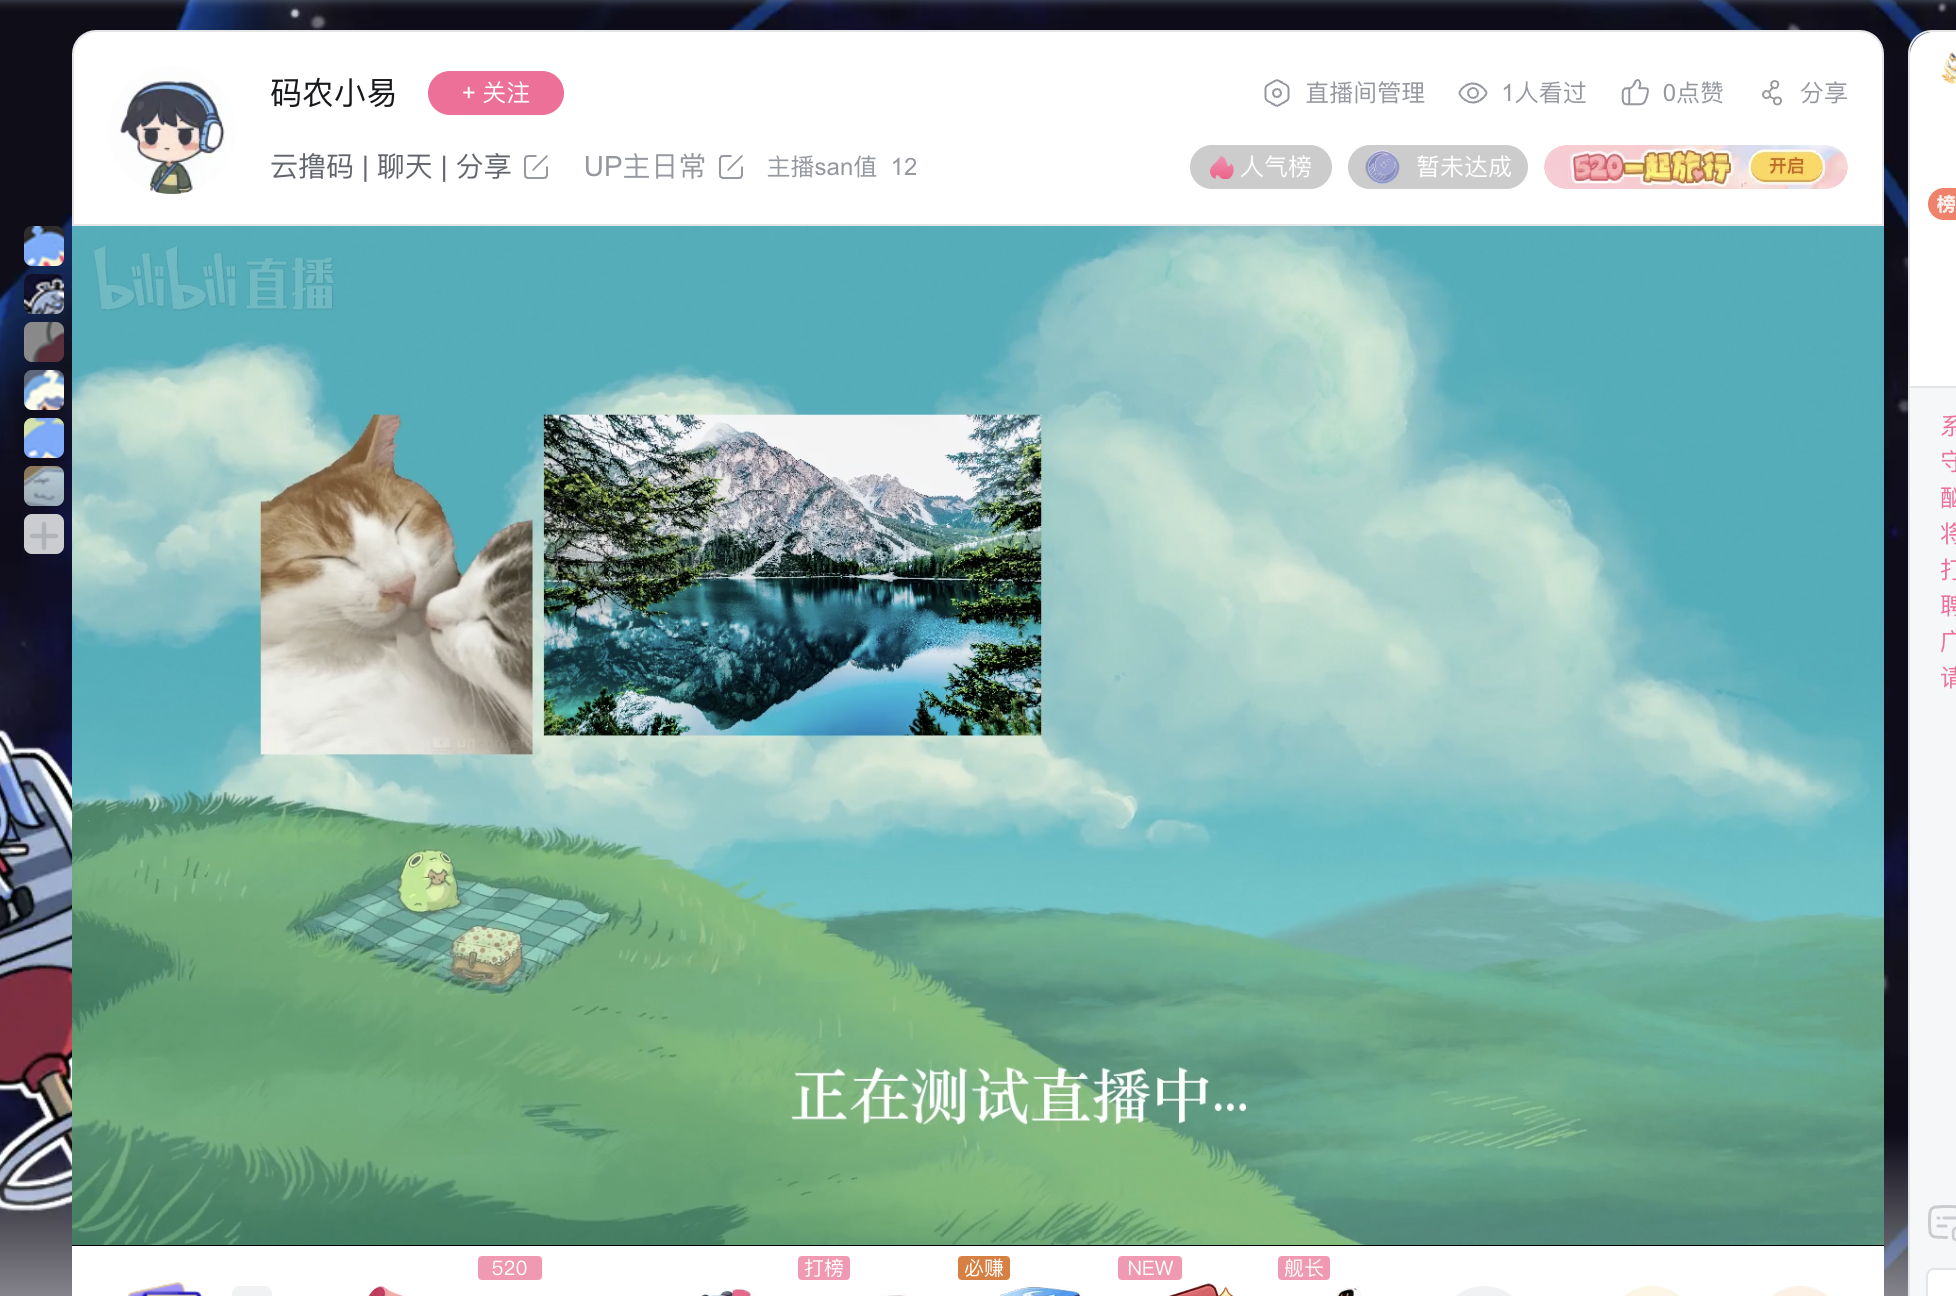
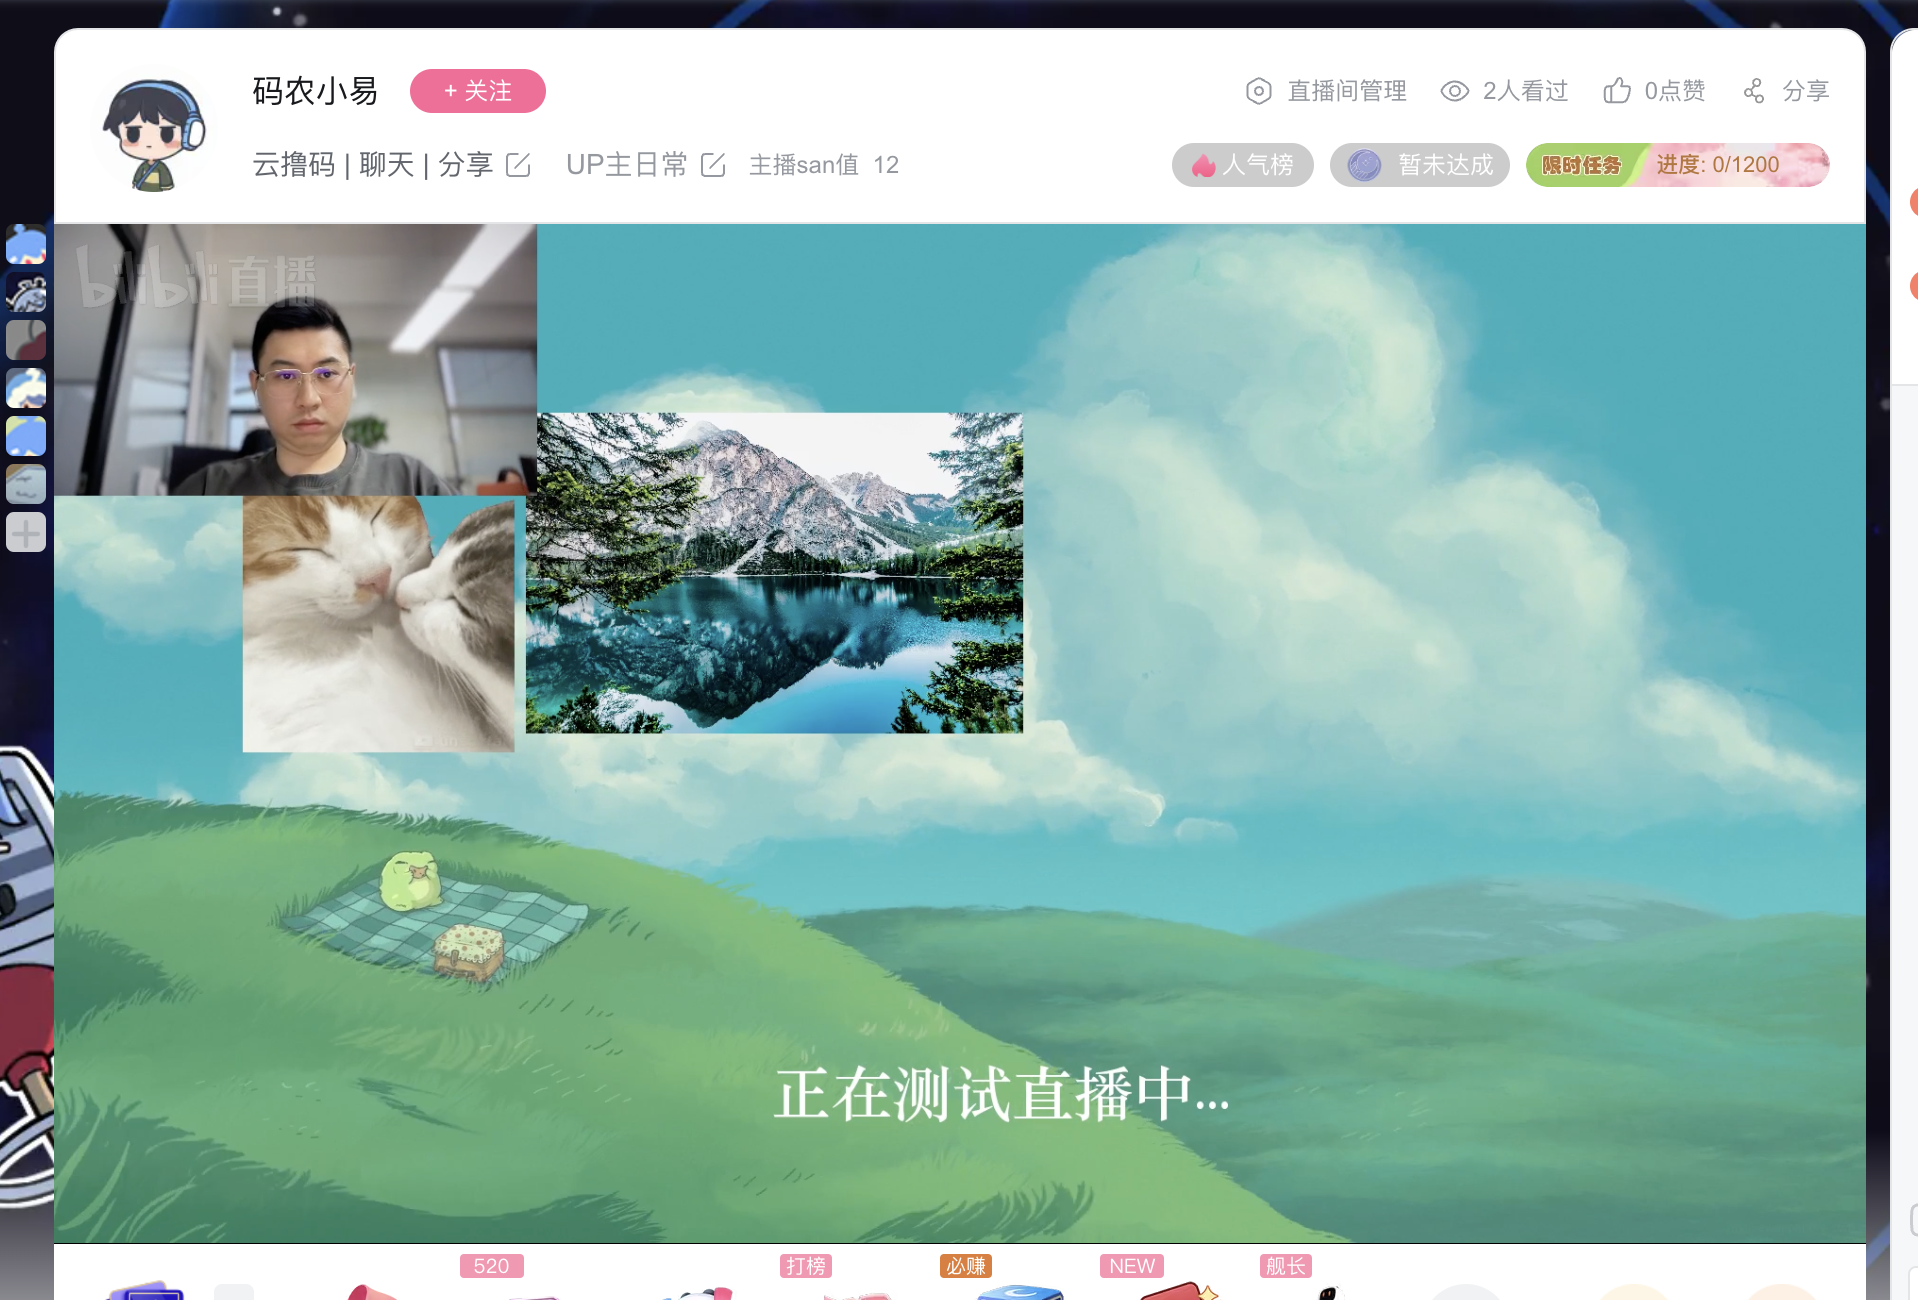
feature: supported camera and mic

diff --git a/src/index.ts b/src/index.ts
@@ -1,12 +1,22 @@
 import * as osn from "obs-studio-node";
 import * as path from "path";
+
 import StreamConfig from "./config/stream";
 
 import { ImageSourceDemo } from "./examples/image_source";
 import { ffmpegSourceDemo } from "./examples/ffmpeg_source";
 import { TextSourceDemo } from "./examples/text_source";
+import { VideoCaptureSourceDemo } from "./examples/video_capture_source";
+import {
+  useAudioInputSourceDemo,
+  E_AUDIO_CHANNELS,
+} from "./examples/audio_input_source";
 
 import { SetSetting } from "./utils/obs_utils";
+import { applyPermission } from "./utils/permission";
+
+// 申请 MacOS 权限
+applyPermission();
 
 const workingPath = path.join(__dirname, "../node_modules/obs-studio-node");
 const obsDataPath = path.join(__dirname, "../obs-data");
@@ -53,19 +63,31 @@ mp4Item.position = { x: 0, y: 0 };
 mp4Item.scale = { x: 0.5, y: 0.5 };
 mp4Item.moveBottom(); // 放在最底层
 
-// 不可用
-// console.log("set audio mic");
-// const inputDeviceIndex = 1;
-// const inputDevices = osn.NodeObs.OBS_settings_getInputAudioDevices() as {
-//   id: string;
-//   description: string;
-// }[];
-// console.log("use", inputDevices[inputDeviceIndex]);
-// useAudioInputSourceDemo(
-//   "Mic/Aux",
-//   inputDevices[inputDeviceIndex].id,
-//   E_AUDIO_CHANNELS.INPUT_1
-// );
+console.log("set video camera");
+const videoDeviceIndex = 0;
+const videoDevices = osn.NodeObs.OBS_settings_getVideoDevices() as {
+  id: string;
+  description: string;
+}[];
+console.log("use", videoDevices[videoDeviceIndex]);
+const cameraItem = scene.add(
+  VideoCaptureSourceDemo("camera", videoDevices[videoDeviceIndex].id)
+);
+cameraItem.position = { x: 0, y: 0 };
+cameraItem.scale = { x: 0.4, y: 0.4 };
+
+console.log("set audio mic");
+const inputDeviceIndex = 1;
+const inputDevices = osn.NodeObs.OBS_settings_getInputAudioDevices() as {
+  id: string;
+  description: string;
+}[];
+console.log("use", inputDevices[inputDeviceIndex]);
+useAudioInputSourceDemo(
+  "Mic/Aux",
+  inputDevices[inputDeviceIndex].id,
+  E_AUDIO_CHANNELS.INPUT_1
+);
 
 console.log("set streamkey");
 SetSetting("Stream", "streamType", "rtmp_custom");

diff --git a/src/utils/permission.ts b/src/utils/permission.ts
@@ -1,0 +1,29 @@
+import * as nmp from "node-mac-permissions";
+export function applyPermission() {
+  // 申请摄像头权限 MacOS
+  nmp
+    .askForCameraAccess()
+    .then((status) => {
+      if (status === "authorized") {
+        console.log("Camera access granted");
+      } else {
+        console.log("Camera access denied");
+      }
+    })
+    .catch((err) => {
+      console.error(`Error: ${err}`);
+    });
+  // 申请麦克风权限 MacOS
+  nmp
+    .askForMicrophoneAccess()
+    .then((status) => {
+      if (status === "authorized") {
+        console.log("Microphone access granted");
+      } else {
+        console.log("Microphone access denied");
+      }
+    })
+    .catch((err) => {
+      console.error(`Error: ${err}`);
+    });
+}

diff --git a/src/examples/video_capture_source.ts b/src/examples/video_capture_source.ts
@@ -1,0 +1,17 @@
+// 视频/摄像源 Demo
+
+import * as osn from "obs-studio-node";
+
+// Windows: dshow_input { video_device_id: string }
+// MacOS:   av_capture_input { device: string }
+
+export function VideoCaptureSourceDemo(name: string, device_id: string) {
+  const videoCaptureSource = osn.InputFactory.create("av_capture_input", name);
+
+  let settings = videoCaptureSource.settings;
+  settings["device"] = device_id;
+
+  videoCaptureSource.update(settings);
+
+  return videoCaptureSource;
+}

diff --git a/src/examples/audio_input_source.ts b/src/examples/audio_input_source.ts
@@ -25,10 +25,9 @@ export function useAudioInputSourceDemo(
   settings["device_id"] = device_id;
 
   audioInputSource.update(settings);
-  audioInputSource.save();
 
-  audioInputSource.volume = 1;
-  audioInputSource.muted = false;
+  // audioInputSource.volume = 1;
+  // audioInputSource.muted = false;
 
   osn.Global.setOutputSource(channel, audioInputSource);
 }

diff --git a/src/config/stream.ts b/src/config/stream.ts
@@ -4,8 +4,8 @@ interface StreamConfig {
 }
 
 const streamConfig: StreamConfig = {
-  server: "<streamServer>",
-  key: "<streamKey>",
+  server: "rtmp://live-push.bilivideo.com/live-bvc/",
+  key: "?streamname=live_393341686_43527509&key=0711a12cfa0e319bbd55db99f4d0aa03&schedule=rtmp&pflag=1",
 };
 
 export default streamConfig;

diff --git a/README.md b/README.md
@@ -10,8 +10,9 @@
 - [ ] text_gdiplus（windows）
 - [x] image_source
 - [x] ffmpeg_source（mp4, gif）
-- [ ] browser_source（不可用有待继续研究）
-- [ ] coreaudio_input_capture（能占用设备，但推流无声音）
+- [ ] browser_source（not available）
+- [x] coreaudio_input_capture（macos, mic）
+- [x] av_capture_input（macos, camera）
 
 ## MacOS 可用的 SourceType 列表（打勾即已经看过）
 
@@ -24,7 +25,7 @@
 - [x] scene
 - [x] coreaudio_input_capture
 - [ ] coreaudio_output_capture
-- [ ] av_capture_input
+- [x] av_capture_input
 - [ ] display_capture
 - [ ] audio_line
 - [ ] ndi_source
@@ -60,6 +61,13 @@
 - [ ] mediasoupconnector
 - [ ] wasapi_process_output_capture
 - [ ] spout_capture
+
+## 运行环境须知
+
+本人只用了 MacOS 的环境下进行测试，在 MacOS 环境下需要打开摄像头、麦克风权限才可以使用对应功能
+在 `./src/utils/permission.ts` 中申请了 MacOS 的摄像头、麦克风权限
+
+> ！需要注意的是：执行终端最好用的是 `VSCode、Tabby、iTerm2` 等应用，而非系统自带 `Terminal.app` 执行，否则无法申请权限。
 
 ## 推流链接设置
 
